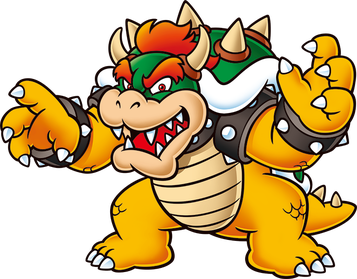
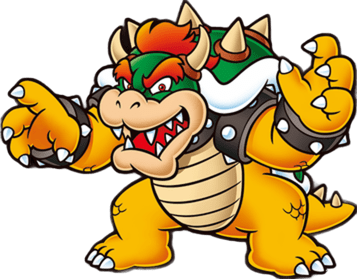
Removed background from images

diff --git a/data/characterImages.js b/data/characterImages.js
@@ -6,66 +6,66 @@ export const characterImages = {
   Yoshi: require('../Imagenes/whoCharacters/yoshi.png'),
   Toad: require('../Imagenes/whoCharacters/toad.png'),
 
-  Batman: require('../Imagenes/whoCharacters/batman.jpg'),
-  Joker: require('../Imagenes/whoCharacters/joker.jpg'),
-  Superman: require('../Imagenes/whoCharacters/superman.jpg'),
+  Batman: require('../Imagenes/whoCharacters/batman.png'),
+  Joker: require('../Imagenes/whoCharacters/joker.png'),
+  Superman: require('../Imagenes/whoCharacters/superman.png'),
   Flash: require('../Imagenes/whoCharacters/flash.png'),
-  "Wonder Woman": require('../Imagenes/whoCharacters/wonder_woman.jpg'),
-  Raven: require('../Imagenes/whoCharacters/raven.jpg'),
+  "Wonder Woman": require('../Imagenes/whoCharacters/wonder_woman.png'),
+  Raven: require('../Imagenes/whoCharacters/raven.png'),
 
   "Iron Man": require('../Imagenes/whoCharacters/iron_man.png'),
-  "Captain America": require('../Imagenes/whoCharacters/captain_america.jpg'),
-  Thanos: require('../Imagenes/whoCharacters/thanos.jpg'),
-  Spiderman: require('../Imagenes/whoCharacters/spiderman.jpg'),
-  Hulk: require('../Imagenes/whoCharacters/hulk.jpg'),
+  "Captain America": require('../Imagenes/whoCharacters/captain_america.png'),
+  Thanos: require('../Imagenes/whoCharacters/thanos.png'),
+  Spiderman: require('../Imagenes/whoCharacters/spiderman.png'),
+  Hulk: require('../Imagenes/whoCharacters/hulk.png'),
   "Black Widow": require('../Imagenes/whoCharacters/black_widow.png'),
 
   Gamora: require('../Imagenes/whoCharacters/gamora.png'),
-  "Captain Marvel": require('../Imagenes/whoCharacters/captain_marvel.jpg'),
+  "Captain Marvel": require('../Imagenes/whoCharacters/captain_marvel.png'),
   Groot: require('../Imagenes/whoCharacters/groot.png'),
   Wanda: require('../Imagenes/whoCharacters/wanda.png'),
-  "Dr. Strange": require('../Imagenes/whoCharacters/dr_strange.jpg'),
-  Hela: require('../Imagenes/whoCharacters/hela.jpg'),
+  "Dr. Strange": require('../Imagenes/whoCharacters/dr_strange.png'),
+  Hela: require('../Imagenes/whoCharacters/hela.png'),
 
   Tanjiro: require('../Imagenes/whoCharacters/tanjiro.png'),
   Sasuke: require('../Imagenes/whoCharacters/sasuke.png'),
   Naruto: require('../Imagenes/whoCharacters/naruto.png'),
-  Light: require('../Imagenes/whoCharacters/light.jpg'),
-  Inuyasha: require('../Imagenes/whoCharacters/inuyasha.jpg'),
-  Sakura: require('../Imagenes/whoCharacters/sakura.jpg'),
+  Light: require('../Imagenes/whoCharacters/light.png'),
+  Inuyasha: require('../Imagenes/whoCharacters/inuyasha.png'),
+  Sakura: require('../Imagenes/whoCharacters/sakura.png'),
 
   Mitsuri: require('../Imagenes/whoCharacters/mitsuri.png'),
-  Shinobu: require('../Imagenes/whoCharacters/shinobu.jpg'),
+  Shinobu: require('../Imagenes/whoCharacters/shinobu.png'),
   Misa: require('../Imagenes/whoCharacters/misa.png'),
-  Nezuko: require('../Imagenes/whoCharacters/nezuko.jpg'),
+  Nezuko: require('../Imagenes/whoCharacters/nezuko.png'),
   Kagome: require('../Imagenes/whoCharacters/kagome.png'),
-  L: require('../Imagenes/whoCharacters/l.jpg'),
+  L: require('../Imagenes/whoCharacters/l.png'),
 
   Elsa: require('../Imagenes/whoCharacters/elsa.png'),
-  Olaf: require('../Imagenes/whoCharacters/olaf.jpg'),
-  Woody: require('../Imagenes/whoCharacters/woody.jpg'),
+  Olaf: require('../Imagenes/whoCharacters/olaf.png'),
+  Woody: require('../Imagenes/whoCharacters/woody.png'),
   "Buzz Lightyear": require('../Imagenes/whoCharacters/buzz_lightyear.png'),
-  Moana: require('../Imagenes/whoCharacters/moana.jpg'),
+  Moana: require('../Imagenes/whoCharacters/moana.png'),
   Ralph: require('../Imagenes/whoCharacters/ralph.png'),
 
-  "Mike Wazowski": require('../Imagenes/whoCharacters/mike_wazowski.jpg'),
+  "Mike Wazowski": require('../Imagenes/whoCharacters/mike_wazowski.png'),
   Cinderella: require('../Imagenes/whoCharacters/cinderella.png'),
   Tiana: require('../Imagenes/whoCharacters/tiana.png'),
   Jafar: require('../Imagenes/whoCharacters/jafar.png'),
-  Aladin: require('../Imagenes/whoCharacters/aladin.jpg'),
+  Aladin: require('../Imagenes/whoCharacters/aladin.png'),
   Hercules: require('../Imagenes/whoCharacters/hercules.png'),
 
   Yoda: require('../Imagenes/whoCharacters/yoda.png'),
   "Harry Potter": require('../Imagenes/whoCharacters/harry_potter.png'),
-  Voldemort: require('../Imagenes/whoCharacters/voldemort.jpg'),
-  Hermione: require('../Imagenes/whoCharacters/hermione.jpg'),
+  Voldemort: require('../Imagenes/whoCharacters/voldemort.png'),
+  Hermione: require('../Imagenes/whoCharacters/hermione.png'),
   "Luke Skywalker": require('../Imagenes/whoCharacters/luke_skywalker.png'),
   "Leia Organa": require('../Imagenes/whoCharacters/leia_organa.png'),
 
   Chucky: require('../Imagenes/whoCharacters/chucky.png'),
   Tiffany: require('../Imagenes/whoCharacters/tiffany.png'),
   "Freddy Krueger": require('../Imagenes/whoCharacters/freddy_krueger.png'),
-  "Aunt Gladys": require('../Imagenes/whoCharacters/aunt_gladys.jpeg'),
+  "Aunt Gladys": require('../Imagenes/whoCharacters/aunt_gladys.png'),
   Dracula: require('../Imagenes/whoCharacters/dracula.png'),
   Longlegs: require('../Imagenes/whoCharacters/longlegs.png'),
 };

diff --git a/screens/whoAmI.js b/screens/whoAmI.js
@@ -188,6 +188,7 @@ export default function WhoAmI({ navigation, route }) {
           </Modal>
         )}
 
+      {/* Modal para que el jugador adivine */}
       {gameState?.isGuessing &&
         !gameState?.finished &&
         gameState.guessingPlayer !== currentUid && (
@@ -226,6 +227,7 @@ export default function WhoAmI({ navigation, route }) {
           </Modal>
         )}
 
+        {/* Modal de resultados */}
         {gameState?.finished && (
           <Modal transparent animationType="fade">
             <View style={{
@@ -424,7 +426,8 @@ const styles = StyleSheet.create({
     height: 120,
     backgroundColor: '#374151',
     borderRadius: 10,
-    marginVertical: 10
+    marginVertical: 10,
+    resizeMode: 'contain'
   },
 
   myCharacterName: {
